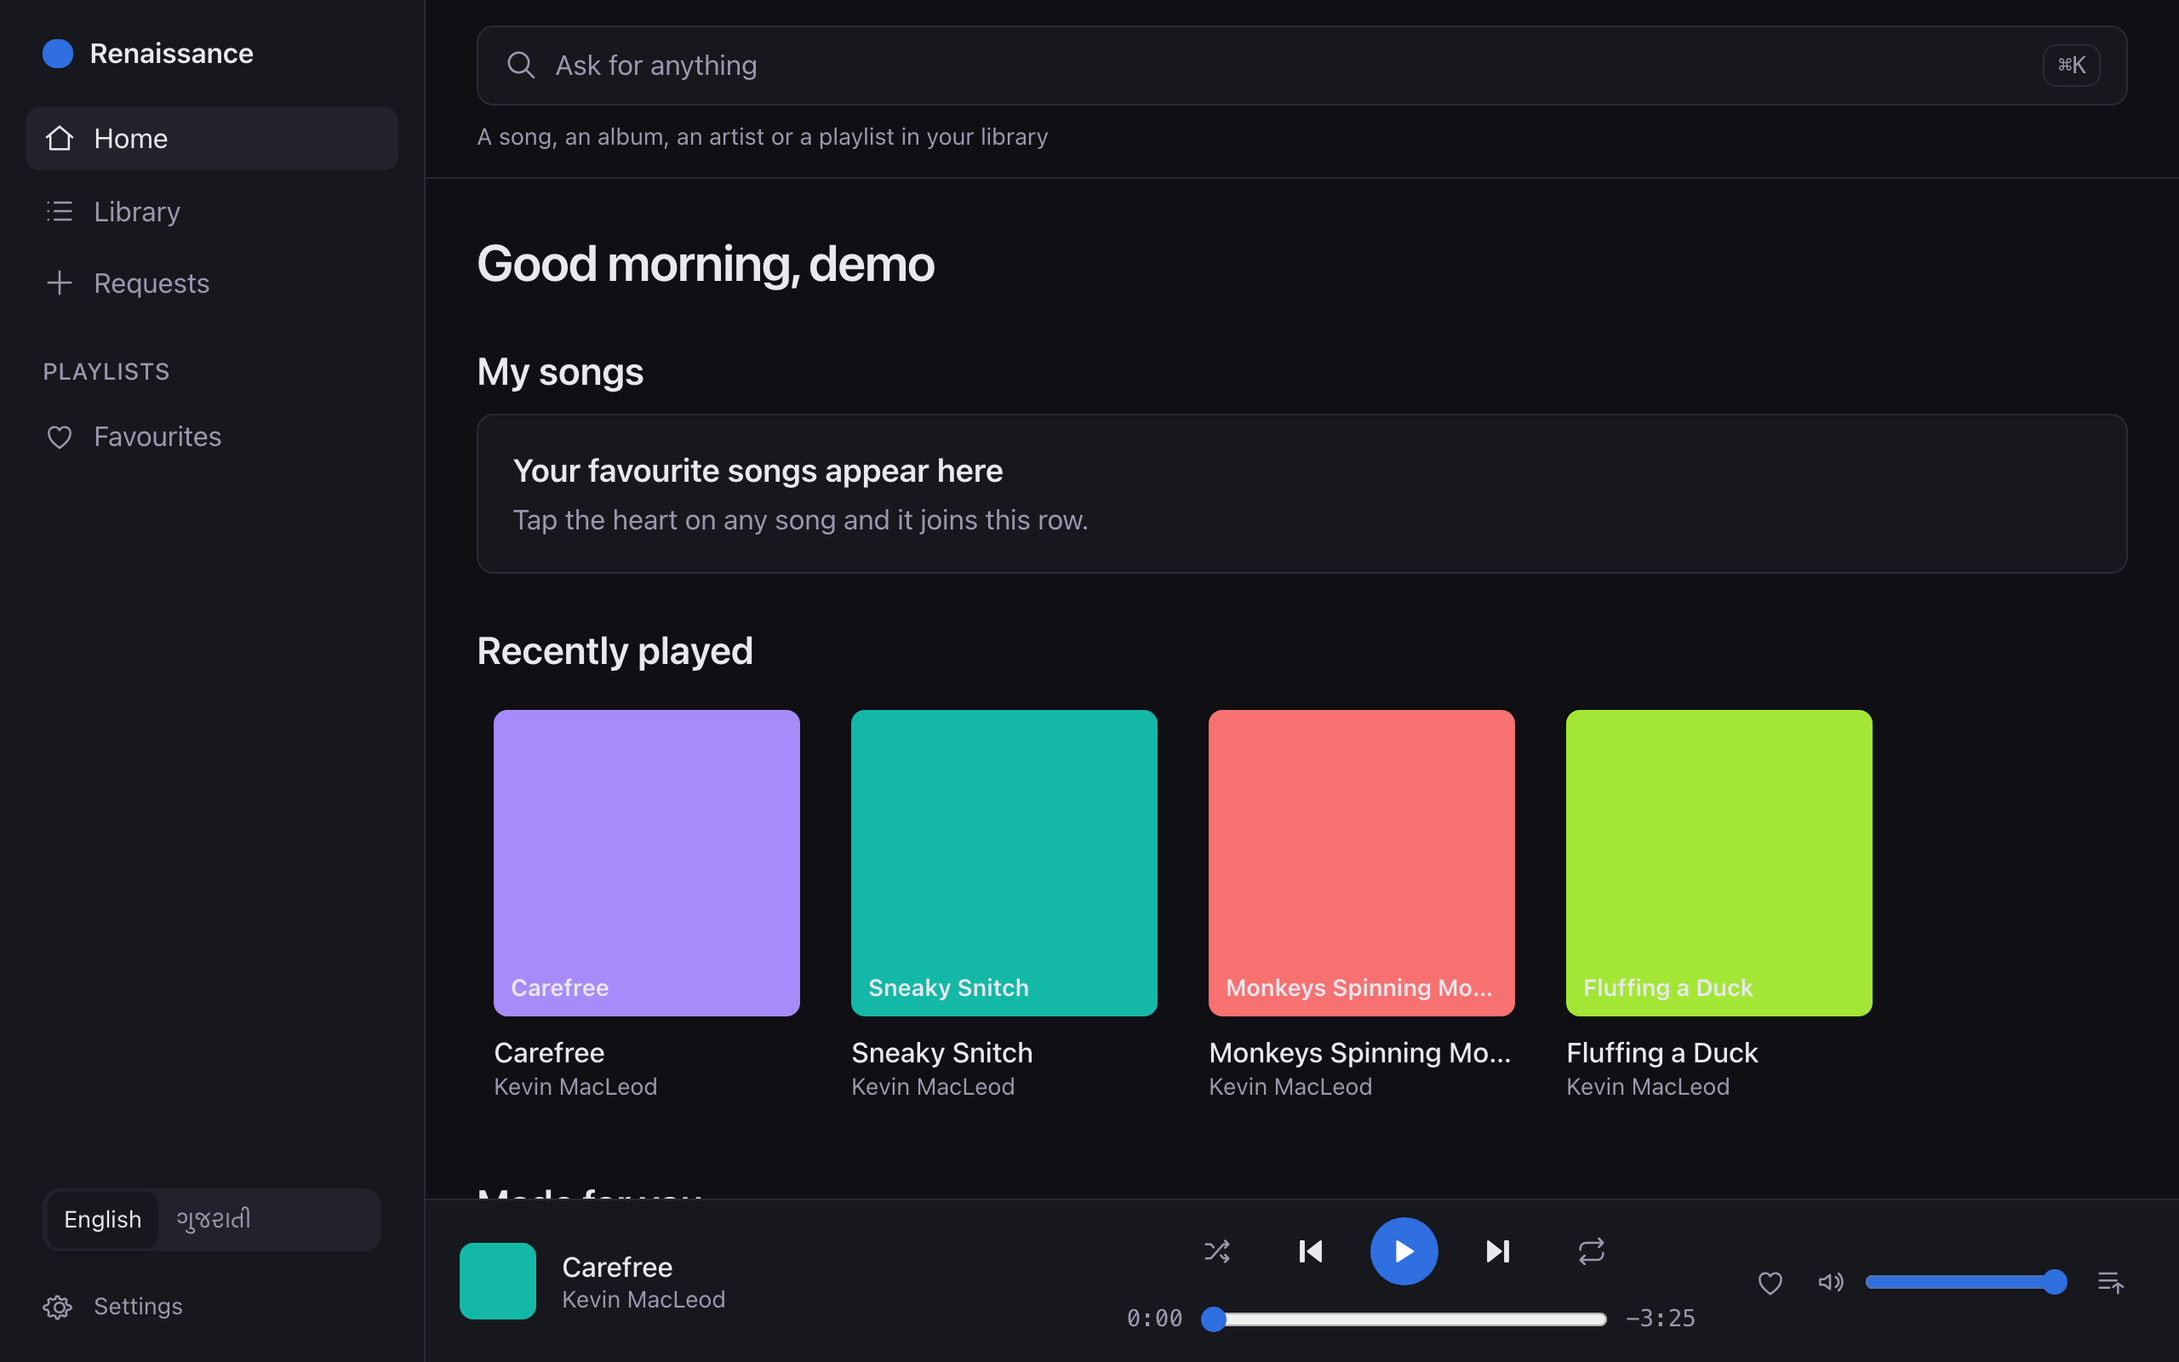
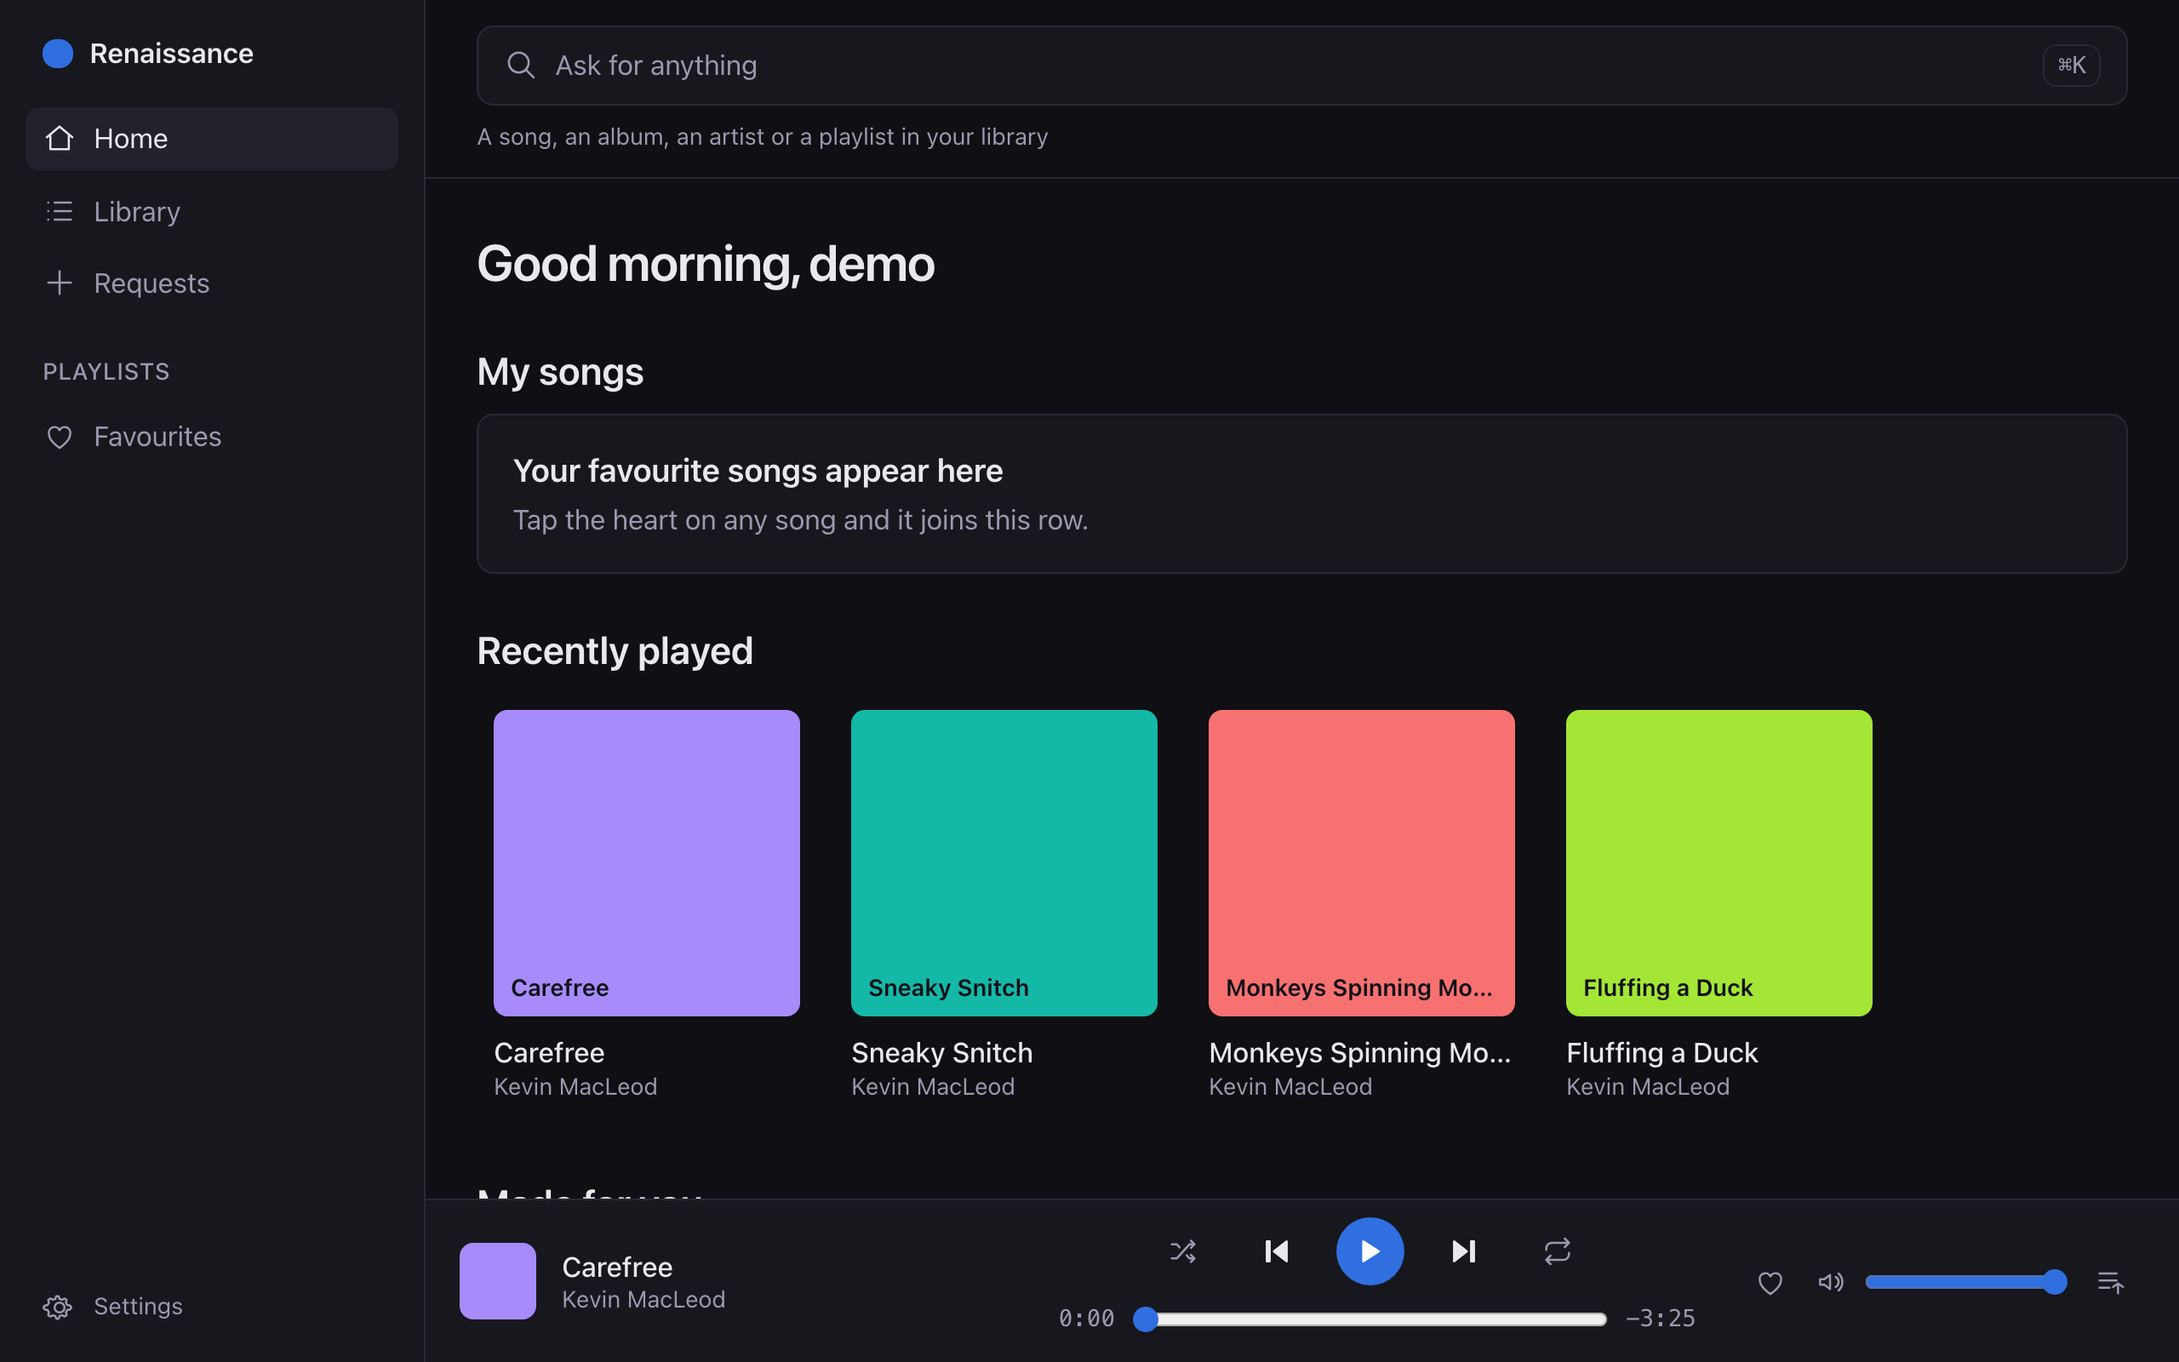
docs: adr 0012 for the watermark delta, testing notes, retaken phase 1 screenshots, changeset

diff --git a/docs/testing.md b/docs/testing.md
@@ -2,12 +2,12 @@
 
 Three layers, all run by `pnpm test` and CI except the last, which needs a real server.
 
-| Layer                     | Where                                                                                                                                                                                                                                                                                                                                                                                                                                                                                                                             | Runs                                                                |
-| ------------------------- | --------------------------------------------------------------------------------------------------------------------------------------------------------------------------------------------------------------------------------------------------------------------------------------------------------------------------------------------------------------------------------------------------------------------------------------------------------------------------------------------------------------------------------- | ------------------------------------------------------------------- |
-| Unit, core                | `packages/core/test` (Vitest, coverage floor 80 % on lines, branches, functions, statements)                                                                                                                                                                                                                                                                                                                                                                                                                                      | `pnpm test`, CI                                                     |
-| Unit, web                 | `apps/web/src/**/*.test.tsx` (Vitest, jsdom, Testing Library; a fake adapter and a fake audio port in `src/test/fakes.ts`; `fake-indexeddb` for the vault and the cache)                                                                                                                                                                                                                                                                                                                                                          | `pnpm test`, CI                                                     |
-| Browser, static           | `apps/web/e2e/accessibility.spec.ts` (Playwright on Chromium against the built app: focus outline colour and width, 24 and 30 px targets, not-found shell, favicon) and `signin.spec.ts` (the 8 s request timeout against a host that never answers, https first for a scheme-less address with the http notice before anything is sent, the Content-Security-Policy meta)                                                                                                                                                        | `pnpm --filter web e2e`, CI                                         |
-| Browser, against Jellyfin | `apps/web/e2e/demo.spec.ts` (sign in; the artist page by every id the server holds for the name, from the grid, from the album and with the server down; row geometry; play with the server's play count rising; three reloads that are not plays; favourite; playlist create, rename, add, keyboard reorder read back from the server, undo, a second user who cannot see it, delete; the bar at 820 px; now playing above the fold at 1280×800 and 390×844; the Ask bar from the cache; sign out removing the library database) | `pnpm --filter web e2e` with the variables below; **skipped in CI** |
+| Layer                     | Where                                                                                                                                                                                                                                                                                                                                                                                                                                                                                                                                                                                                                                                                                                                                                                                                         | Runs                                                                |
+| ------------------------- | ------------------------------------------------------------------------------------------------------------------------------------------------------------------------------------------------------------------------------------------------------------------------------------------------------------------------------------------------------------------------------------------------------------------------------------------------------------------------------------------------------------------------------------------------------------------------------------------------------------------------------------------------------------------------------------------------------------------------------------------------------------------------------------------------------------- | ------------------------------------------------------------------- |
+| Unit, core                | `packages/core/test` (Vitest, coverage floor 80 % on lines, branches, functions, statements)                                                                                                                                                                                                                                                                                                                                                                                                                                                                                                                                                                                                                                                                                                                  | `pnpm test`, CI                                                     |
+| Unit, web                 | `apps/web/src/**/*.test.tsx` (Vitest, jsdom, Testing Library; a fake adapter and a fake audio port in `src/test/fakes.ts`; `fake-indexeddb` for the vault and the cache)                                                                                                                                                                                                                                                                                                                                                                                                                                                                                                                                                                                                                                      | `pnpm test`, CI                                                     |
+| Browser, static           | `apps/web/e2e/accessibility.spec.ts` (Playwright on Chromium against the built app: focus outline colour and width, 24 and 30 px targets, not-found shell, favicon, the chart ink on every swatch read from rendered pixels in both themes) and `signin.spec.ts` (the 8 s request timeout against a host that never answers, https first for a scheme-less address with the http notice before anything is sent, the Content-Security-Policy meta)                                                                                                                                                                                                                                                                                                                                                            | `pnpm --filter web e2e`, CI                                         |
+| Browser, against Jellyfin | `apps/web/e2e/demo.spec.ts` (sign in; the artist page by every id the server holds for the name, from the grid, from the album and with the server down; row geometry; play with the server's play count rising; three reloads that are not plays; favourite; playlist create, rename, add, keyboard reorder read back from the server, undo, a second user who cannot see it, delete; the bar at 820 px and from 1024 to 1366 px in simple mode with the scrubber at least 160 px; now playing above the fold at 1280×800 and 390×844; no sideways scroll at a 25 px root; placeholder and genre labels in the chart ink from pixels in both themes; the Ask bar from the cache; sign out removing the library database; a browser that blocks IndexedDB still signing in and loading the library in memory) | `pnpm --filter web e2e` with the variables below; **skipped in CI** |
 
 ## The demo server
 

diff --git a/.changeset/phase-1-core-web.md b/.changeset/phase-1-core-web.md
@@ -7,4 +7,6 @@
 
 Phase 1, core and web. Sign in to a Jellyfin server by address, user and password or with Quick Connect (F1, F2); the token is encrypted in the browser with a key the page cannot export (F5). Home with My songs, Recently played and Made for you in simple mode, plus Recently added and Most played in advanced (F7, F84). Library with artists, album artists, albums, songs, genres, years and playlists in grid and list, sorted and filtered from the URL (F8, F15), all from a local IndexedDB cache with a delta refresh (F14). Album, artist, playlist and favourites pages (F9, F10, F12, F13). Instant library search under the Ask bar with recent searches (F11, F75). Gapless playback through two media elements with direct play or transcoding by network class, a persisted queue with drag reorder, play next, add to end, clear, history, shuffle with an album-aware option, repeat, a now-playing screen, media keys through MediaSession, and play reporting so play counts work everywhere (F20 to F27). Settings with the simple or advanced switch, theme, language, streaming quality per network and sign-out. Every string in English and Gujarati. Mobile gains the mirrored TrackRow and AlbumCard components and the shared icon set; its screens follow in phase 3.
 
-After the first round of review: an artist page shows every song and album whatever id the server holds for the name (Jellyfin keeps two entities for one artist when a library gains artist folders later), and works with the server down; a reload no longer counts as a play or starts a transcode; a token the server revoked sends you to sign-in with a sentence instead of a wall of errors; playlist reorders are read back from Jellyfin and compensated for 10.10's off-by-one, with the toast after the read-back and an undo; new playlists are private to you; every request times out (8 s on sign-in, 15 s elsewhere) with the "could not reach" sentence; the cache fetches what a refresh missed and keeps time by the server's clock; sign-out removes your library, queue and token from the browser; a scheme-less address tries https first and says so before using http; placeholder art matches the row, the bar fits a tablet, now playing fits a desktop and a phone, and genre, year and placeholder labels read in the light theme.
+After the first round of review: an artist page shows every song and album whatever id the server holds for the name (Jellyfin keeps two entities for one artist when a library gains artist folders later), and works with the server down; a reload no longer counts as a play or starts a transcode; a token the server revoked sends you to sign-in with a sentence instead of a wall of errors; playlist reorders are read back from Jellyfin and compensated for 10.10's off-by-one, with the toast after the read-back and an undo; new playlists are private to you; every request times out (8 s on sign-in, 15 s elsewhere) with the "could not reach" sentence; the cache fetches what a refresh missed and its delta reads from the server's own item stamps (the newest date added and date saved it has seen), so no clock on either side matters; sign-out removes your library, queue and token from the browser; a scheme-less address tries https first and says so before using http; placeholder art matches the row, the bar fits a tablet, now playing fits a desktop and a phone, and genre, year and placeholder labels read in the light theme.
+
+After the second round: the player bar keeps a usable scrubber at every width from 1024 px in simple mode (times and volume from 1280 px there); placeholder and genre labels render in the one ink that reads on every swatch in the dark theme too; the bar's placeholder colour matches the row's; the sidebar language switch and the Library sync line follow simple mode as the phone does; a browser that blocks IndexedDB (a private window with site data blocked) still signs in and loads the library, kept in memory for the session; counts print with thousands grouping ("20,000 songs", Indian grouping in Gujarati); a scheme-less address that answers on neither scheme says so after two tries instead of three; a sign-out in one tab signs the other tabs of that user out too; a late 401 from a previous user's requests no longer signs the next user out; the reorder planner forgets a learned model that stopped fitting; a favourite reaches the other tabs once the server has it.

diff --git a/docs/adr/0012-delta-refresh-from-a-server-stamped-watermark.md b/docs/adr/0012-delta-refresh-from-a-server-stamped-watermark.md
@@ -1,0 +1,38 @@
+# ADR 0012: The delta refresh reads from a server-stamped watermark, not a clock
+
+Date: 2026-11-18. Status: accepted. Adds to ADR 0008, which it does not change.
+
+## Context
+
+ADR 0008 pages new items by `DateCreated` "until an item older than the last sync appears" and asks for
+user-data changes "since the last sync". Phase 1's first rework took that time from the server's `Date`
+header, so the two clocks (server and device) could not disagree. Measured afterwards: Jellyfin sends
+`Date` but no `Access-Control-Expose-Headers`, so a page served from any origin other than Jellyfin's
+own (the dev server, the Pages demo, an app host) reads `null` and silently fell back to the device's
+clock. The documented deployments are all cross-origin, so the server clock never applied in practice.
+
+## Decision
+
+1. The delta keeps no clock at all. The sync records a watermark made of the server's own stamps on
+   the items it has seen: the newest `dateAdded` (`DateCreated`) and the newest `lastSaved`
+   (`DateLastSaved`, which 10.10.7 leaves out of the item DTO even when asked for; `DateCreated` then
+   stands in). The next delta pages `DateCreated` descending down to the `added` mark (strictly older
+   stops it; an item stamped exactly at the mark is fetched again rather than skipped) and asks
+   `MinDateLastSavedForUser` from the `saved` mark. The watermark only moves forward.
+2. `syncedAt` stays, as the device's own clock, and only says "last refreshed" on screen. Nothing
+   compares it with a server date.
+3. A stored meta without a watermark (written by an older build, or by a server whose items carry no
+   stamps) means the next sync is a full one; the reconcile-by-count from ADR 0008 heals anything a
+   delta still misses.
+
+## Consequences
+
+- Correctness no longer depends on which origin serves the page or on either clock being right; a
+  device set to the wrong year syncs the same (tested with a 2000 and a 2099 clock).
+- One full re-sync on the first start after this change, then deltas as before.
+- `Library.serverTime()` is gone from the adapter interface; nothing reads response headers.
+- Measured on 10.10.7 while doing this: `MinDateLastSavedForUser` filters on the item's own
+  `DateLastSaved`, which a favourite or a play does not bump. Those changes reach the cache through the
+  200-item `DateLastSaved` page, the socket's `UserDataChanged` refresh and the next full sync; a
+  favourite toggled on another device for an item outside that page waits for one of those. ADR 0008's
+  "favourite and play-count changes through `MinDateLastSavedForUser`" over-states what the filter does.
